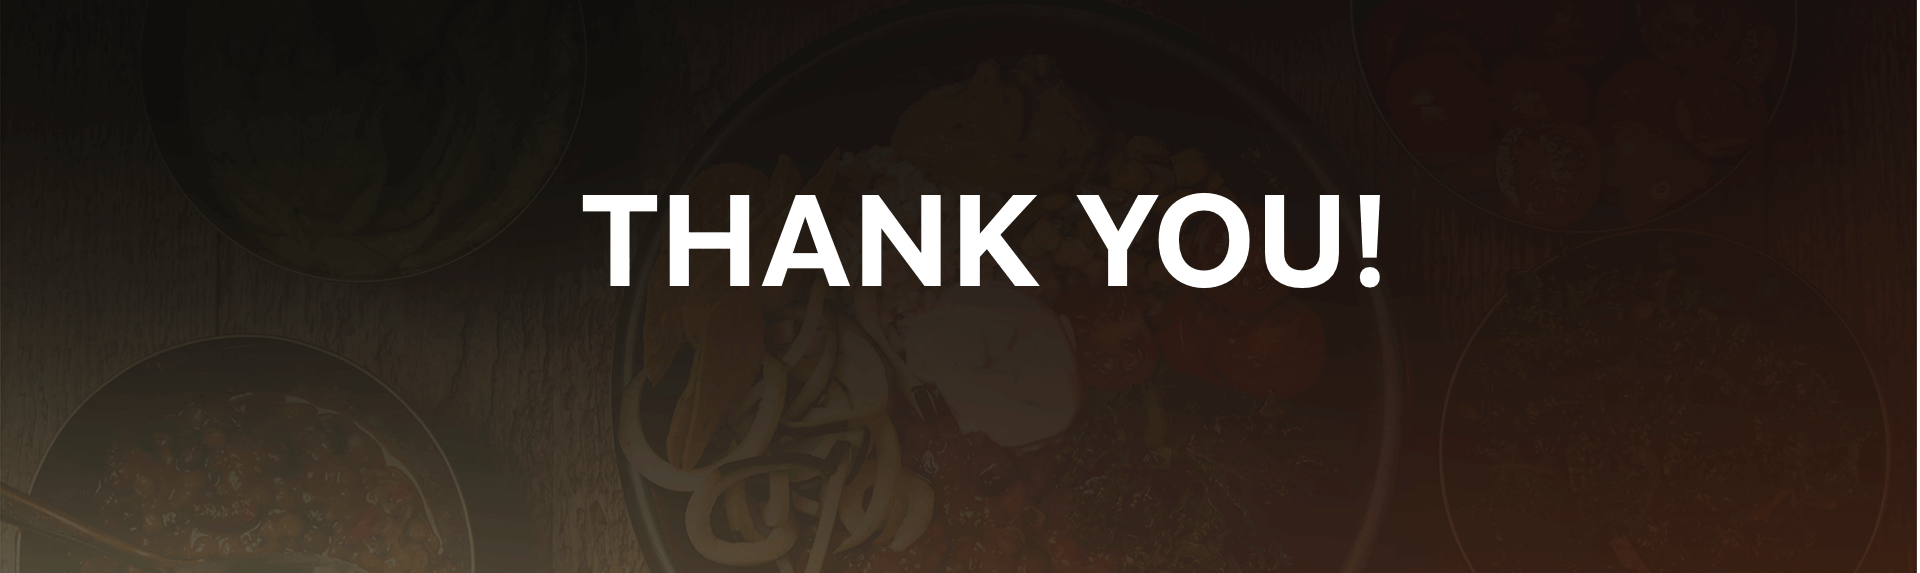
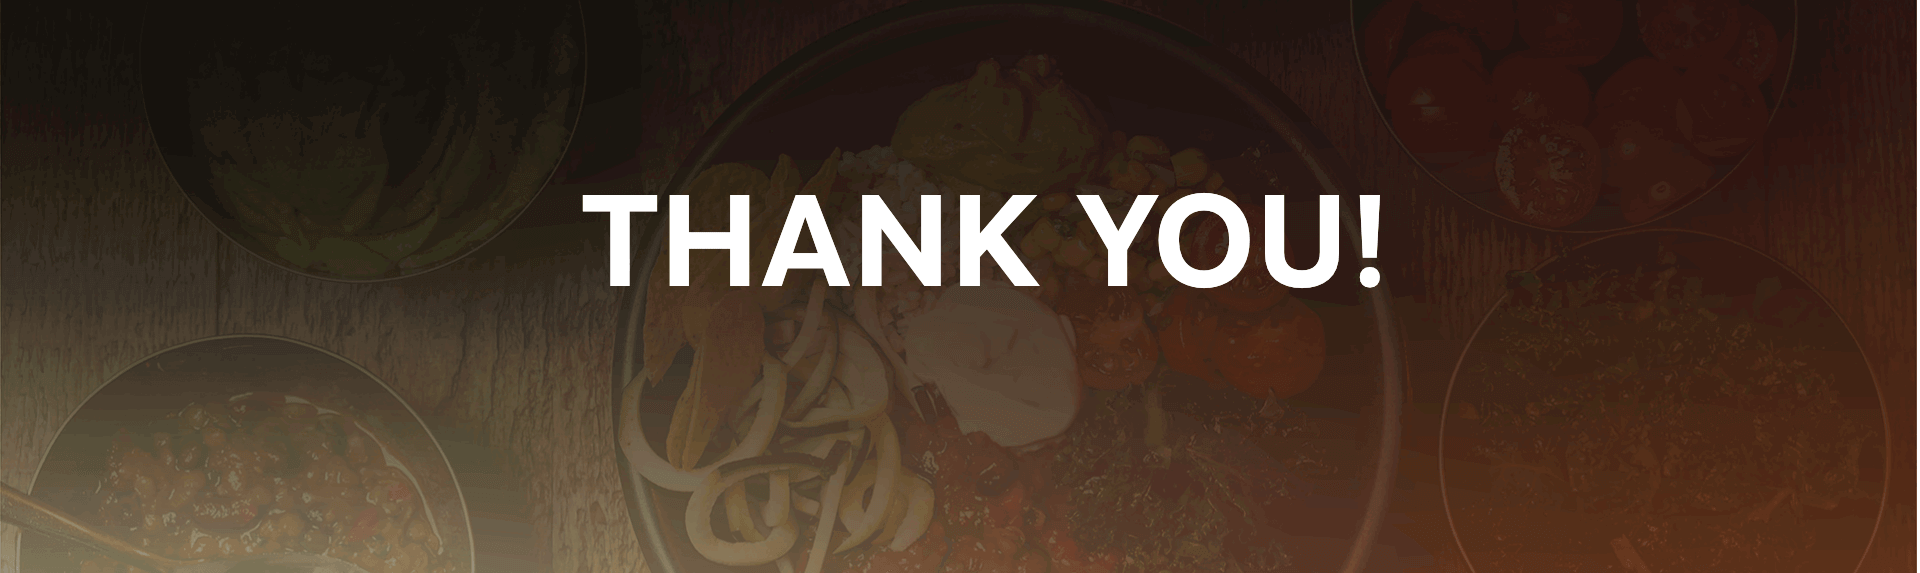
added typography images to "treats" changed thank you image to better quality, finished minor styling "treats"

diff --git a/treats.html b/treats.html
@@ -318,9 +318,16 @@
         <section class="color-treats">
             <!--color and typo-->
             <h2>Color Palette</h2>
-       
+    <div class=" columns">
+        <div class="column-50">
+           <h4 class="desktop-only ">Primary</h4> 
+           </div>
+           <div class="column-50">
+           <h4 class="desktop-only ">Neutral</h4>
+           </div>
+       </div>
             <div class="columns">  <!--container primes & neutral-->
-               <h4>Primary</h4> 
+               <h4 class="tablet-and-mobile">Primary</h4> 
                 <div class="column-50 ">
                      
                      <div>
@@ -343,7 +350,8 @@
                 </div>
             </div>
           
-                 <h4>Neutral</h4> 
+        
+                 <h4 class="tablet-and-mobile ">Neutral</h4> 
                 <div class="column-50 ">
                    
                      <div>
@@ -371,34 +379,29 @@
 
 
 </section>
-        </div>
+        </div> <!--end background colors-->
         
-        <div class="section"> <!--Typography-->
-            <h2>Typography</h2>
-            <h4>Motiva Sans</h4>
+        <div class="section">  <!--Typography-->
+            <h2 class="row">Typography</h2>
 
-            <p class="motiva-sans">
-                AaBbCcDdEeFfGgHhIiJjKkLl <br> MmNnOoPpQqRrSsTtUuVvWwXxYyZz
-            </p>
-            <p>0123456789</p>
-            <p>~%!@#$%&*-+={}[]()?/|\:;,.</p>
-
-        </div>
-        <!--end colors and typo-->
+            <img src="images/treats/compressed/desktop/d-tr-project-typo@1364.png" class="desktop-only"
+                        alt="Typography Example Font Motiva-Sans">
+            <img src="images/treats/compressed/mobile/m-tr-project-typo@800.png" class="tablet-and-mobile"
+                        alt="Typography Example Font Motiva-Sans">
+       </div>
+        <!--end typo-->
 
         <div>
             <!--Thank you-->
 
             <picture>
-                <source srcset="images/treats/compressed/mobile/m-tr-project-thankyou@375.png"
+                <source srcset="images/treats/compressed/mobile/m-tr-project-thankyou@800.png"
                     media="(max-width:639px)">
                 <img src="images/treats/compressed/desktop/d-tr-project-thankyou@1920.png" alt="Thank You!">
             </picture>
         </div>
 
     </main>
-
-
 
     <!--end bg projects-->
     <footer class="footer">

diff --git a/css/style.css b/css/style.css
@@ -195,6 +195,18 @@ header>nav {
 
 }
 
+@media (max-width: 1024px) {
+    .desktop-only {
+        display: none;
+    }
+}
+@media only screen and (min-width: 1024px) {
+    .tablet-and-mobile {
+        display: none;
+    }
+
+}
+
 img {
     width: 100%;
 }
@@ -399,16 +411,13 @@ background-color: #BEB3BE;
  /* Treats Project*/
  /*******************************************/
  
-.bg-personas {
-    width: 100%;
-    height: 40vh;
-    background-image: linear-gradient(to right, #BAAA9A, #E5D6C8);
-}
+
 .box-color-swatch {
     width: 160px;
     height: 160px;
     border-radius: 10px;
     display: inline-block;
+    margin-bottom: 16px;
 }
 .treats-prime-1 {
     background-color: #F79119 ;
@@ -434,12 +443,8 @@ background-color: #BEB3BE;
 
 .color-treats .columns {
     justify-content: space-evenly;
-    /*flex-wrap: wrap;*/
+   
 }
-
-/*.color-treats h4 {
-   width: 100%;
-}*/
 
 .color-treats .small-bodytext {
     font-size: 1.8rem;

diff --git a/css/style-mobile.css b/css/style-mobile.css
@@ -332,7 +332,7 @@ body {
     width: 132px;
     height: 132px;
     border-radius: 10px;
-   
+    margin-bottom: 8px;
 }
 .color-treats-background {
     background-color: #FFFFFF;
@@ -363,6 +363,8 @@ body {
     width: 100%;
     justify-content: space-evenly;
 }
+
+
 /*******************************************/
     /* footer & Button*/
 /*******************************************/

diff --git a/css/style-tablet.css b/css/style-tablet.css
@@ -35,6 +35,7 @@
 
 }
 
+
 .columns {
     flex-wrap: wrap;
 }
@@ -101,6 +102,7 @@
     height: 160px;
     border-radius: 10px;
     display: inline-block;
+    margin-bottom: 16px;
 }
 .color-treats-background {
     background-color: #FFFFFF;
